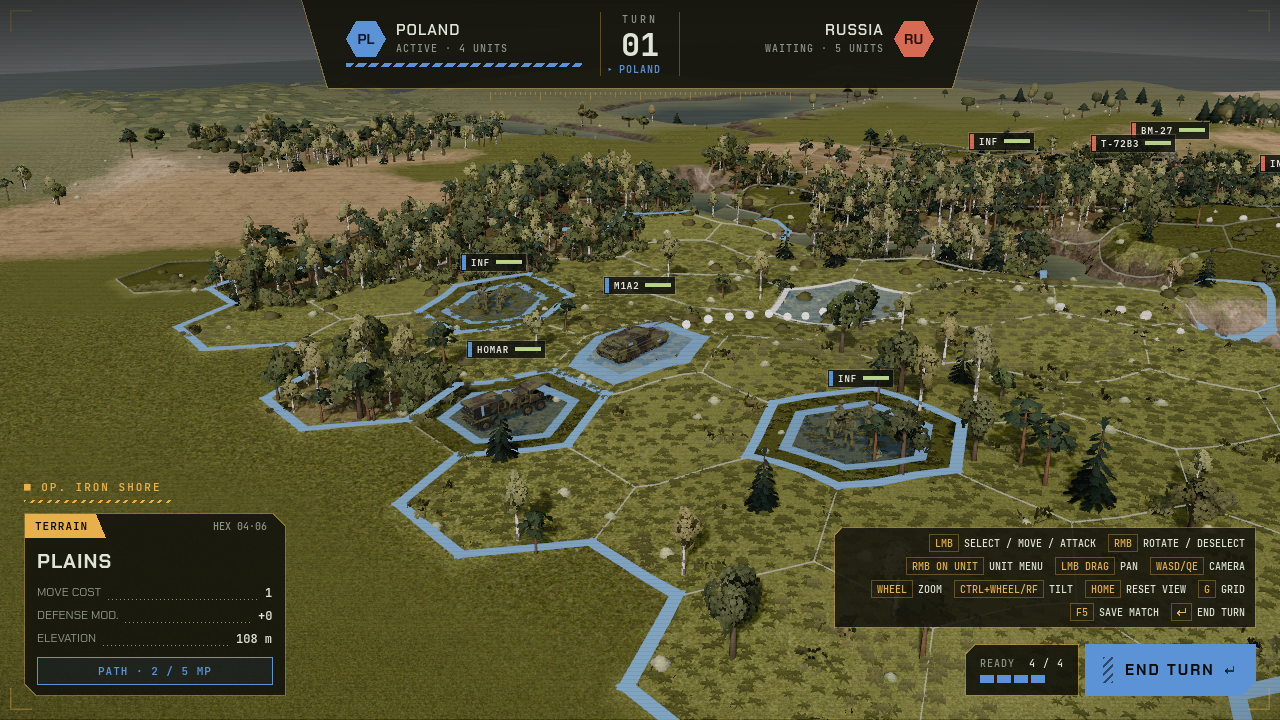
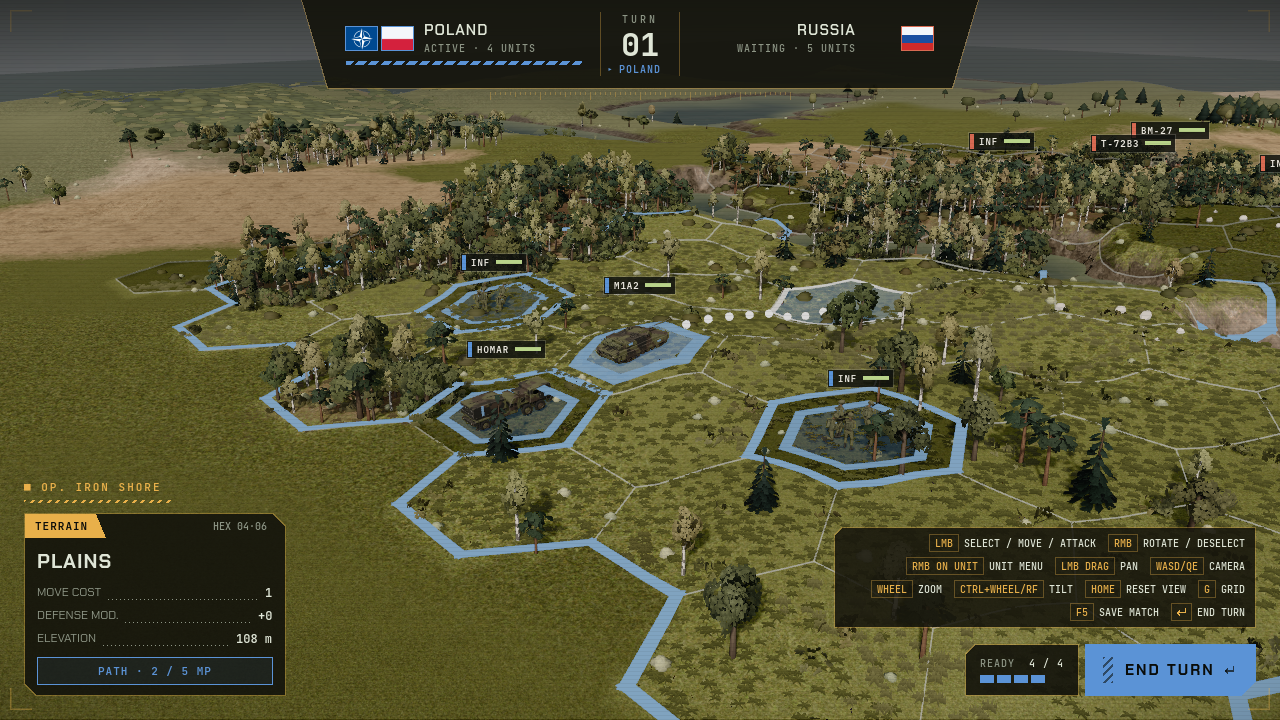
TASK-130: side and faction flags in the battle turn bar; to playtest

Changed region(s): [[0.5625, 0.0306, 0.75, 0.0917], [0.25, 0.0306, 0.4375, 0.0917]]

diff --git a/docs/tasks/BACKLOG.md b/docs/tasks/BACKLOG.md
@@ -160,7 +160,7 @@ Operational map principle (human, 2026-11-07, GDD "Operational map"): hexes are 
 | [TASK-127](TASK-127-side-flags-in-ui.md) | Side flags next to side names: shared flag component, first in the battle result notice (headline + side tabs), then the staff map top bar and contact notice | 🔵 done | – (soft: TASK-120) |
 | [TASK-128](TASK-128-auto-resolve-defence-calibration.md) | Auto-resolve calibration: defending on hills wins 94 % in auto-resolve vs 56 % in played battles ("fortress" gap); measure, tune or fix AI attacking fortified positions until win shares differ by ≤ 20 points | 🟢 ready | TASK-120 |
 | [TASK-129](TASK-129-staff-map-cards-overlap.md) | Staff map: the order ring card overlaps the formation card (seen in the README staff_map shot) | 🟢 ready | – |
-| [TASK-130](TASK-130-battle-turn-bar-flags.md) | Tactical battle turn bar: side flag and faction flag per player (new `FactionDefinition.flag`, Polish flag asset) | 🟢 ready | – |
+| [TASK-130](TASK-130-battle-turn-bar-flags.md) | Tactical battle turn bar: side flag and faction flag per player (new `FactionDefinition.flag`, Polish flag asset) | 🟣 to playtest | – |
 
 **Rule: every operational task is clickable (decided 2026-11-07).** Each task of the operational layer ships something the human can **see and click** in the staff map (TASK-093a) – a command is not done until a button, key or click gives it and the result is drawn; a task whose only check is a unit test or an implementation-notes log is split or merged with the task that shows it. The "Playtest (for the human)" section lists concrete clicks (what to press, what appears), never "None – no view yet"; core and view criteria sit in the same task, the view reading state and events only (architecture rule 3). Pure rules still get unit tests first (rule 6). Order of the first slice, each step playable: 093a (map) → 092b (counters, panel) → 093b (End turn, sides) → 092c (route preview) → 092d (orders) → 092e (execution) → 093c (front line) → 094 / 120 / 095 (contact, battle, result). **Reworked 2026-11-07:** TASK-113 … 118, 121, 122 now each carry their own visible part (borders, stance tints + F9 debug panel, level in the turn bar, route warnings, the Decisions panel, allied counters, the Support tab); TASK-119 shrank to a read-only overview. **Still to rework before they are specified** (playtest section says "None"): TASK-097a / 097b are specified (2026-11-09); TASK-099 / 100 / 096 (each with its marker or overlay); TASK-094 was split on 2026-11-07 into 094a (notice) → 094b (battle map) → 094c (play, return) → 094d (campaign save), each with its own clicks; TASK-103 (headless simulation) stays a tool but gets a report page in devtools.
 

diff --git a/docs/tasks/TASK-130-battle-turn-bar-flags.md b/docs/tasks/TASK-130-battle-turn-bar-flags.md
@@ -1,6 +1,6 @@
 # TASK-130: Side and faction flags in the tactical battle turn bar
 
-- **Status**: ready
+- **Status**: to playtest
 - **Layers**: data (`FactionDefinition.flag`, Poland flag asset) + presentation
 - **Depends on**: – (TASK-127 is done: `SideFlag`, `SideDefinition.flag`, `assets/flags/`)
 - **Sections**: none (UI only; look = HUD v3, `docs/design/hud_v3`)
@@ -35,4 +35,7 @@ none (cosmetic)
 
 ## Implementation notes
 
-_Filled in by the agent when done._
+- `FactionDefinition.flag` (poland.svg new, russia faction reuses russia.svg); `SideDefinition.find_for_faction` (explicit id table `IDS`); `HudModel.flags_of(faction)` = side flag + faction flag, deduped by resource path (Russia: one), `flags` in the top-bar data.
+- `BattleHud`: the `HexBadge` is **replaced** by a `Flags` box with two `SideFlag`s (`SideFlag.PAIR` 32 × 24, frame in the faction colour; second hidden when absent/duplicate), same precedent as the staff map turn bar. `HexBadge` is now unused in `src/` (left in place).
+- Deviation: the hud_v3 mockup has the hexagonal badge; flags are the human's request. Russia's single flag is 32 × 24, not the 48 × 36 of the staff map bar.
+- Tests: `test_side_flag.gd` (lookup, dedup, no-side case, every faction has a flag), `test_battle_hud.gd`. `tools/check.sh`: only failures are in the staff map / operation tests from the unfinished TASK-095 (`OperationalOrders.budget()` missing), none from this task.

diff --git a/assets/flags/README.md b/assets/flags/README.md
@@ -7,3 +7,4 @@ The NATO file's width / height were reduced to 192 x 144 (viewBox unchanged) so 
 
 The viewBox is also cropped to the central 560 x 420 part (the compass star) on purpose: the full flag is unreadable at flag size in the UI.
 The four long tick lines at the edges (the first four sub-paths) were removed, the compass star is untouched.
+- `poland.svg` – own simple bicolour drawing (faction flag, TASK-130); `FactionDefinition.flag`. Russia's faction flag is the same file as its side flag, `russia.svg`.
